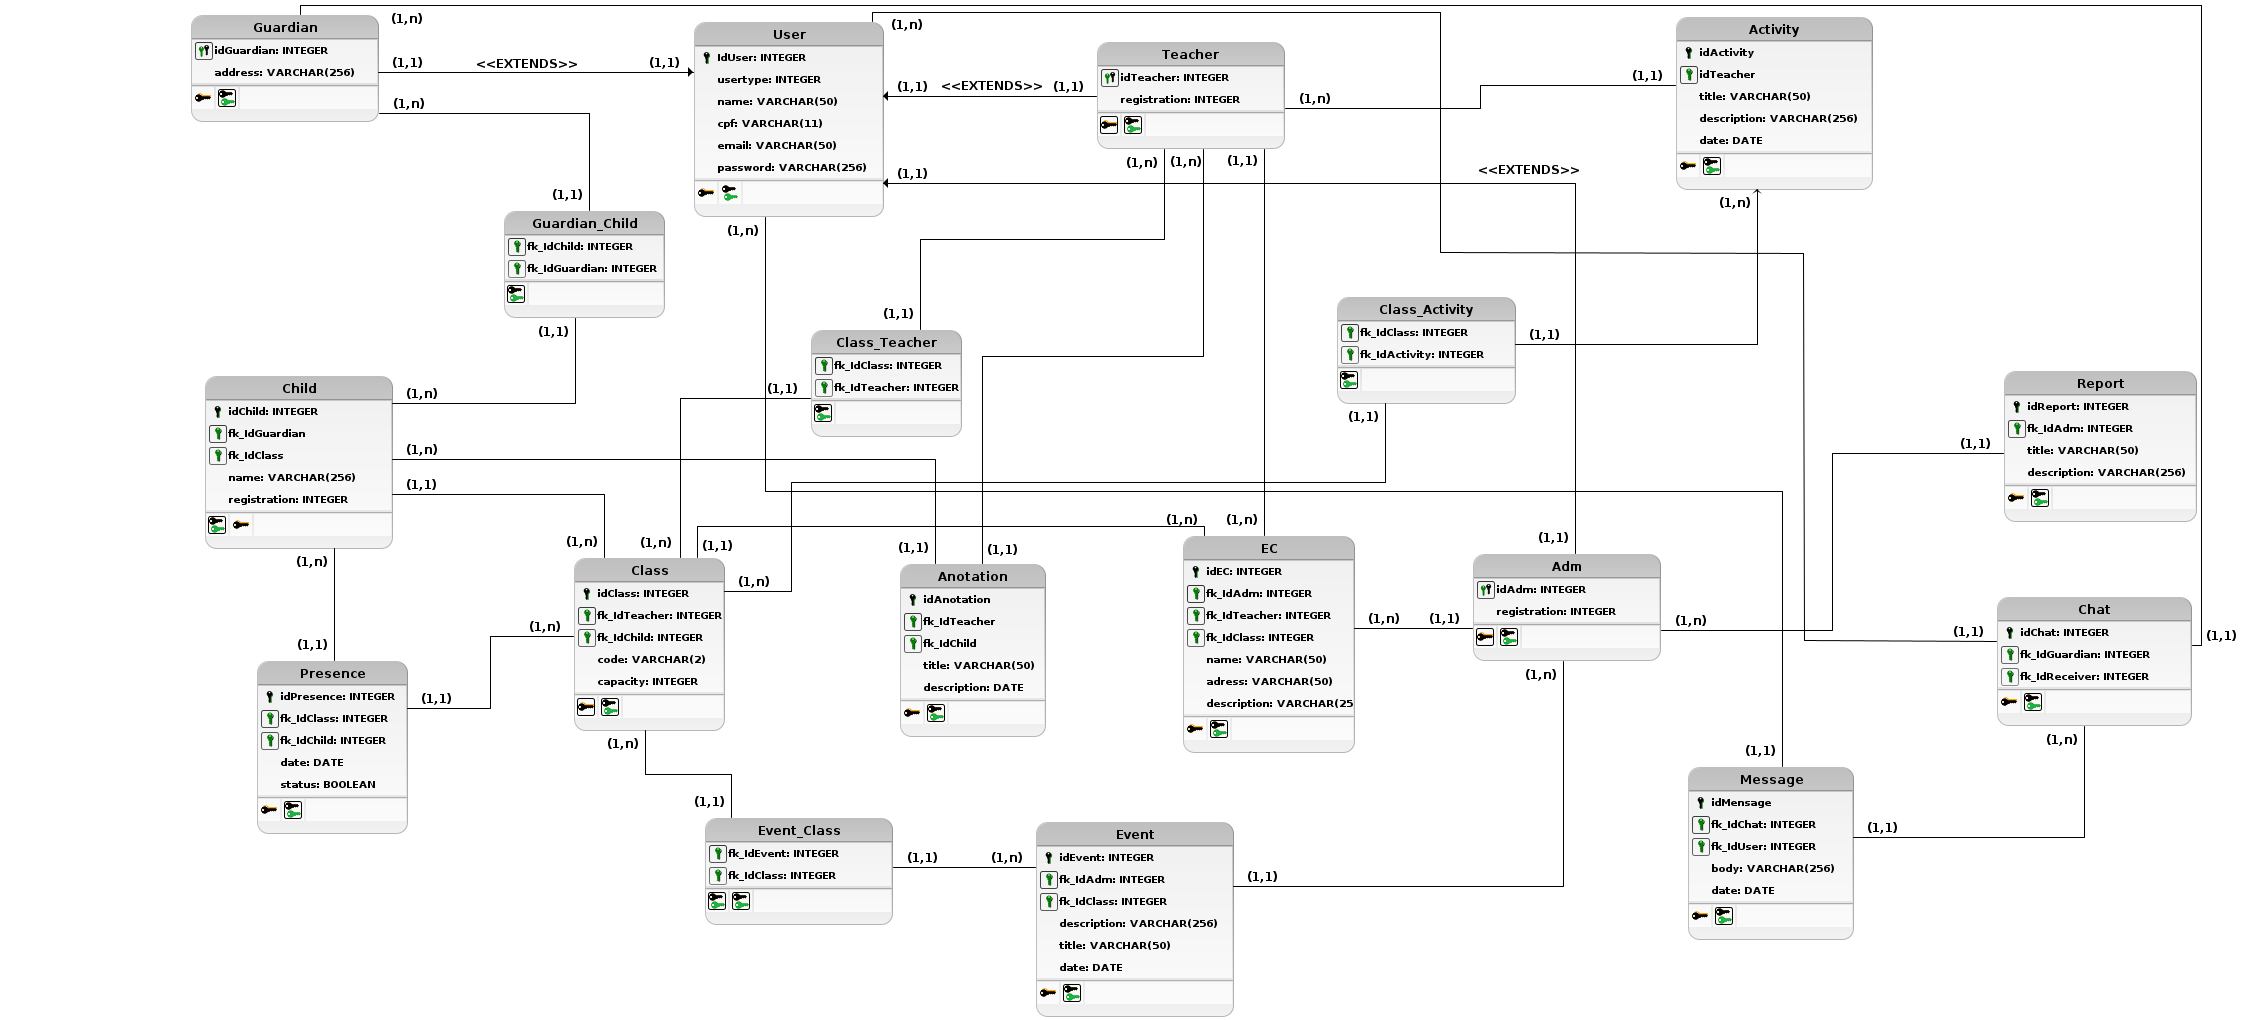
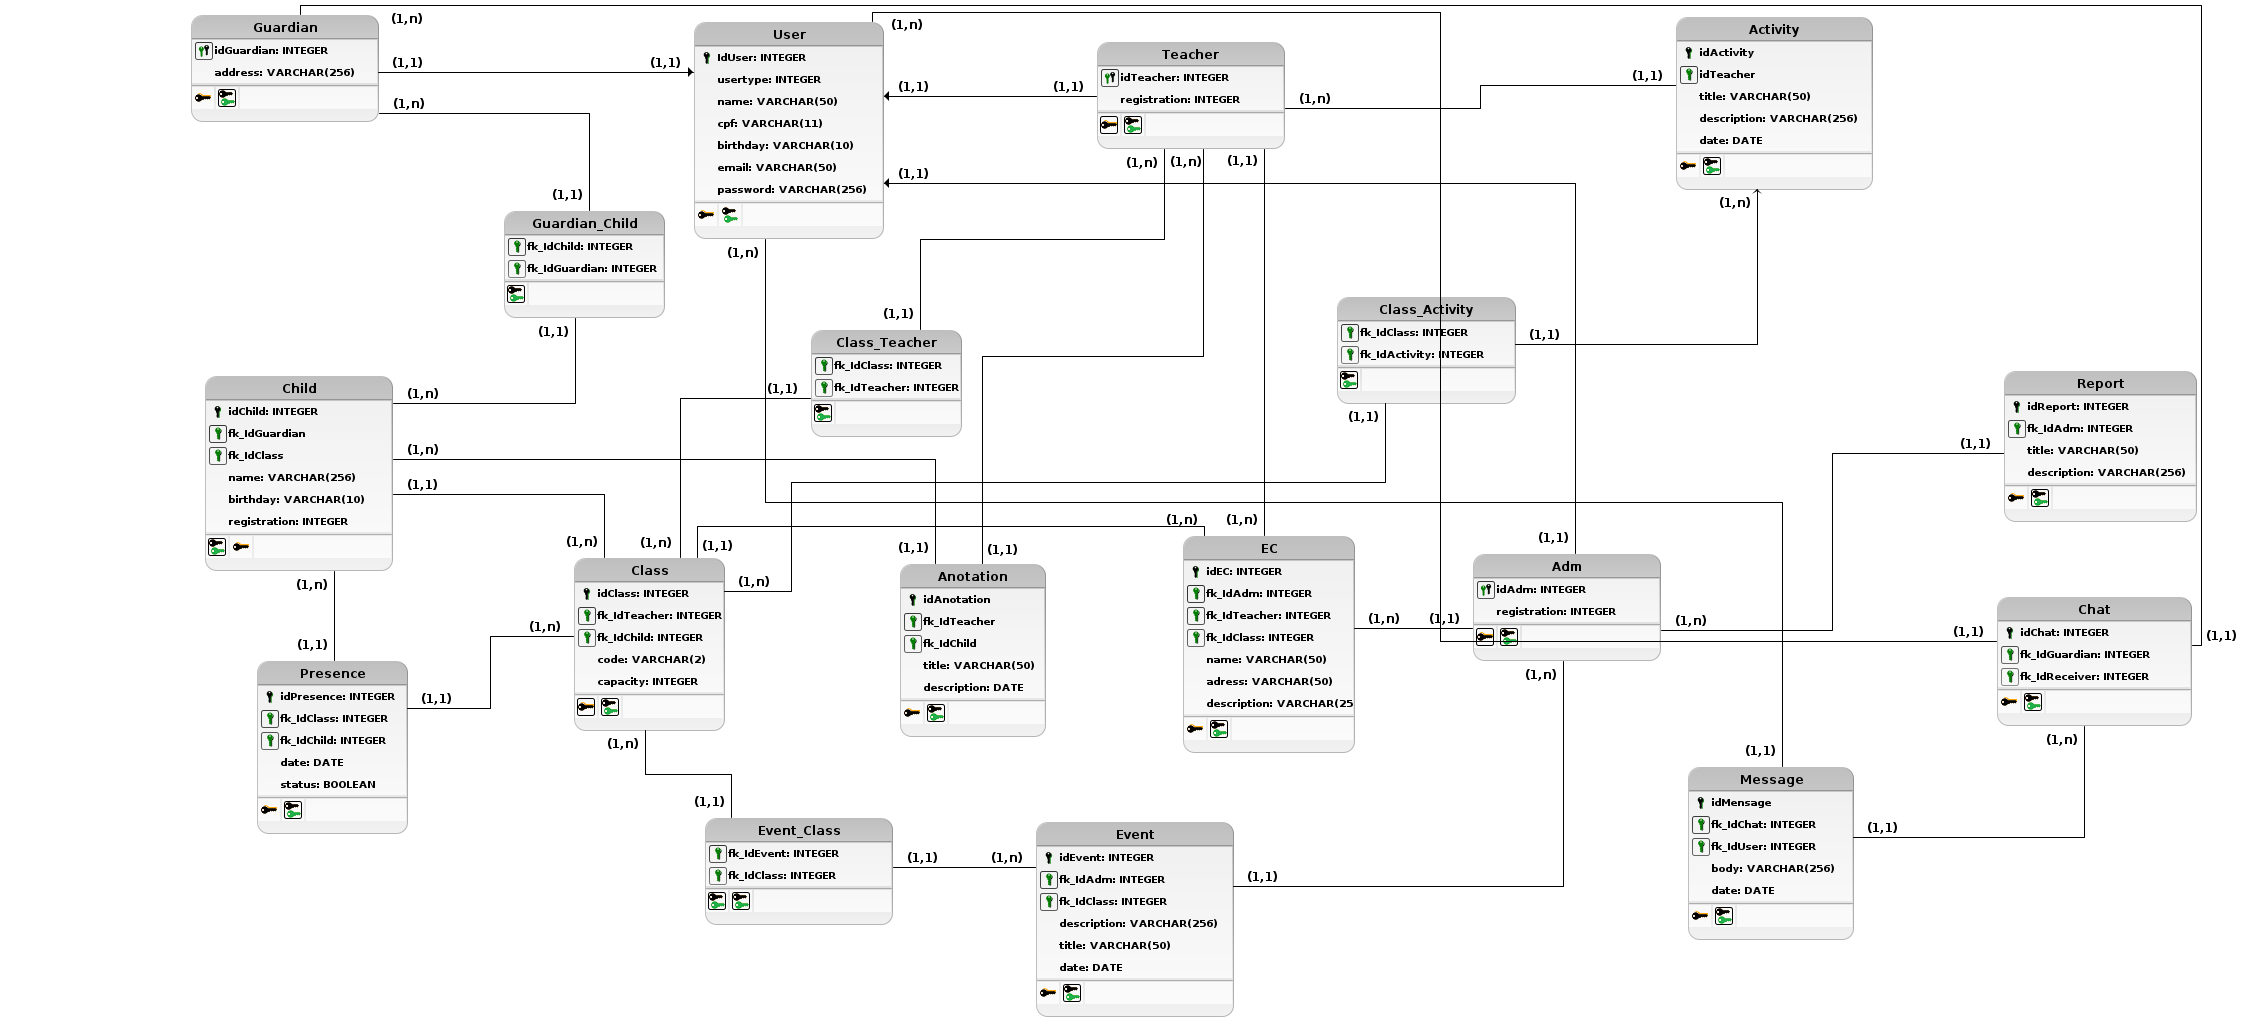
doc(#116) Adicionando novas informaçoes ao diagrama, e novas observaçoes.

diff --git a/docs/modelagem/modelagem-estatica/diagrama-logico-bd.md b/docs/modelagem/modelagem-estatica/diagrama-logico-bd.md
@@ -21,7 +21,6 @@ Depois de algumas discussões durante a construção do modelo lógico, foi obse
  
 #### **Observações**:<br>
 - As tabelas [Adm](/2021.1_G6_Curumim/base/requisitos/modelagem/lexicos/#lexico-administrador), [Teacher](/2021.1_G6_Curumim/base/requisitos/modelagem/lexicos/#lexico-professor) e [Guardian](/2021.1_G6_Curumim/base/requisitos/modelagem/lexicos/#lexico-responsavel), cada uma possuem uma chave primária que também é uma chave estrangeira que faz referência a tabela [User](/2021.1_G6_Curumim/base/requisitos/modelagem/lexicos/#lexico-usuario), que será a tabela que possui de fato as informações pessoais de cada tipo de [usuário](/2021.1_G6_Curumim/base/requisitos/modelagem/lexicos/#lexico-usuario), e um identificar de qual tipo é aquele [usuário](/2021.1_G6_Curumim/base/requisitos/modelagem/lexicos/#lexico-usuario).
-- A cardinalidade (1:1) da relação entre a tabela User e as demais relacionadas a ela, evidenciam que deveria ser feito a união de tabelas, da tabela [User](/2021.1_G6_Curumim/base/requisitos/modelagem/lexicos/#lexico-usuario) com as das demais tabelas relacionadas a ela, porém para este caso em específico, as tabelas vão “herdar” os atributos da tabela [User](/2021.1_G6_Curumim/base/requisitos/modelagem/lexicos/#lexico-usuario), por isso a cardinalidade (1:1).
 - O [Board](/2021.1_G6_Curumim/base/requisitos/modelagem/lexicos/#lexico-mural) que antes estava presente no [MER](../modelagem-estatica/MER.md) e [DER](../modelagem-estatica/DER.md), pela sua cardinalidade em relação a tabela [Child](/2021.1_G6_Curumim/base/requisitos/modelagem/lexicos/#lexico-crianca) seria adequado que fosse incorporada a tabela [Child](/2021.1_G6_Curumim/base/requisitos/modelagem/lexicos/#lexico-crianca), porém depois de alguns debates e análises, foi evidenciado que os atributos presentes na tabela [Board](/2021.1_G6_Curumim/base/requisitos/modelagem/lexicos/#lexico-mural) não teriam utilidade no desenvolvimento, e deixaria a tabela [Child](/2021.1_G6_Curumim/base/requisitos/modelagem/lexicos/#lexico-crianca) com muita informação desnecessariamente, por isso o [Board](/2021.1_G6_Curumim/base/requisitos/modelagem/lexicos/#lexico-mural) acabou ficando de fora da modelagem final.
  
  
@@ -41,3 +40,4 @@ Depois de algumas discussões durante a construção do modelo lógico, foi obse
 | 1.0 | 30/08/2021 | Abertura do documento          | Edson Soares, Eliseu Kadesh |
 | 1.1 | 30/08/2021 | Adição de link para o léxicos  | Eliseu Kadesh |
 | 1.2 | 30/08/2021 | Revisão por pares              | Gabriel Bonifácio, Francisco Ferreira |
+| 2.0 | 30/08/2021 | Alterações no diagrama e novas observações | Eliseu Kadesh |
